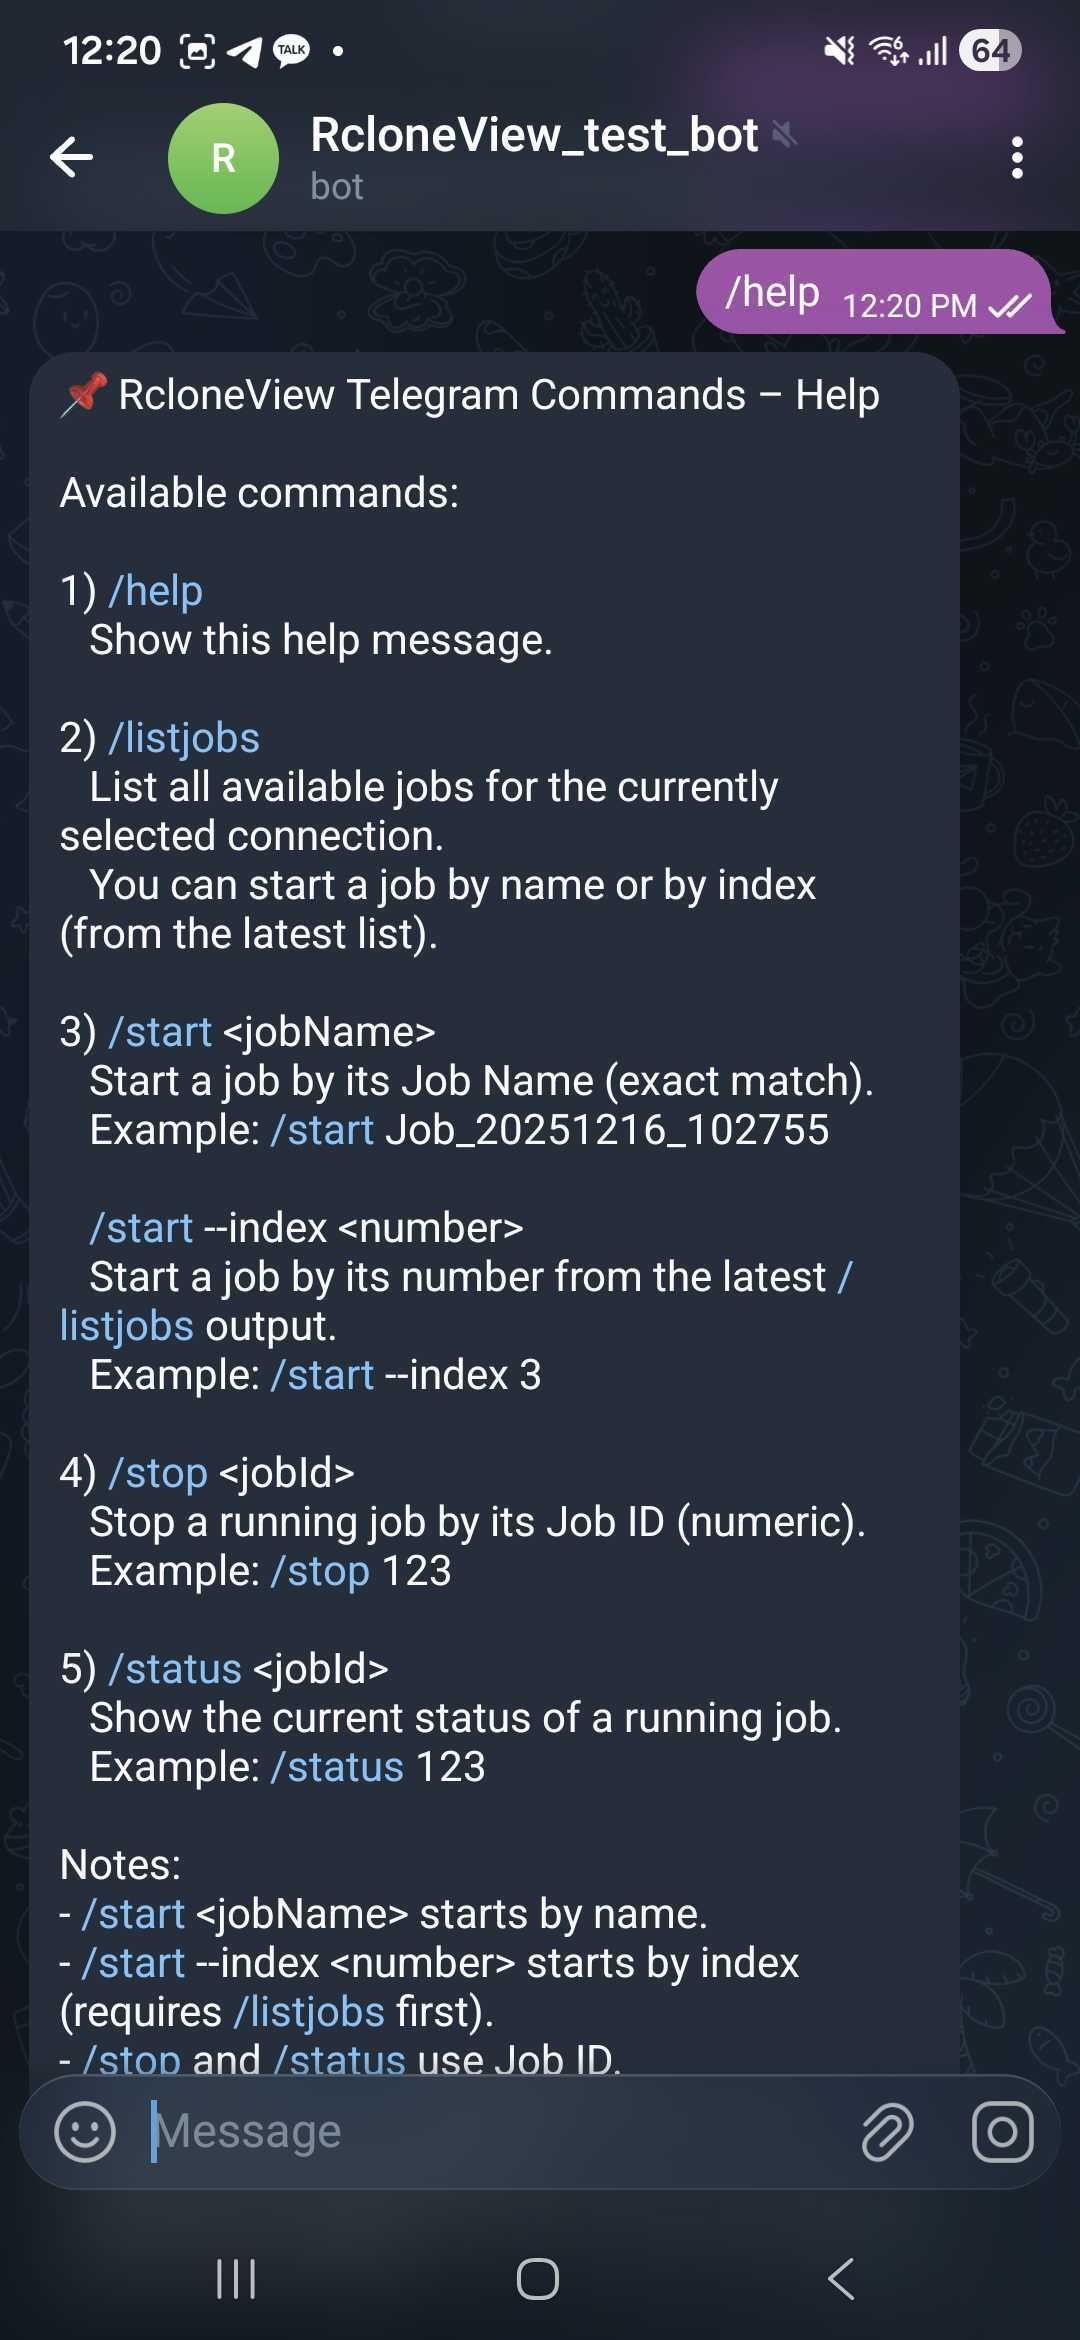
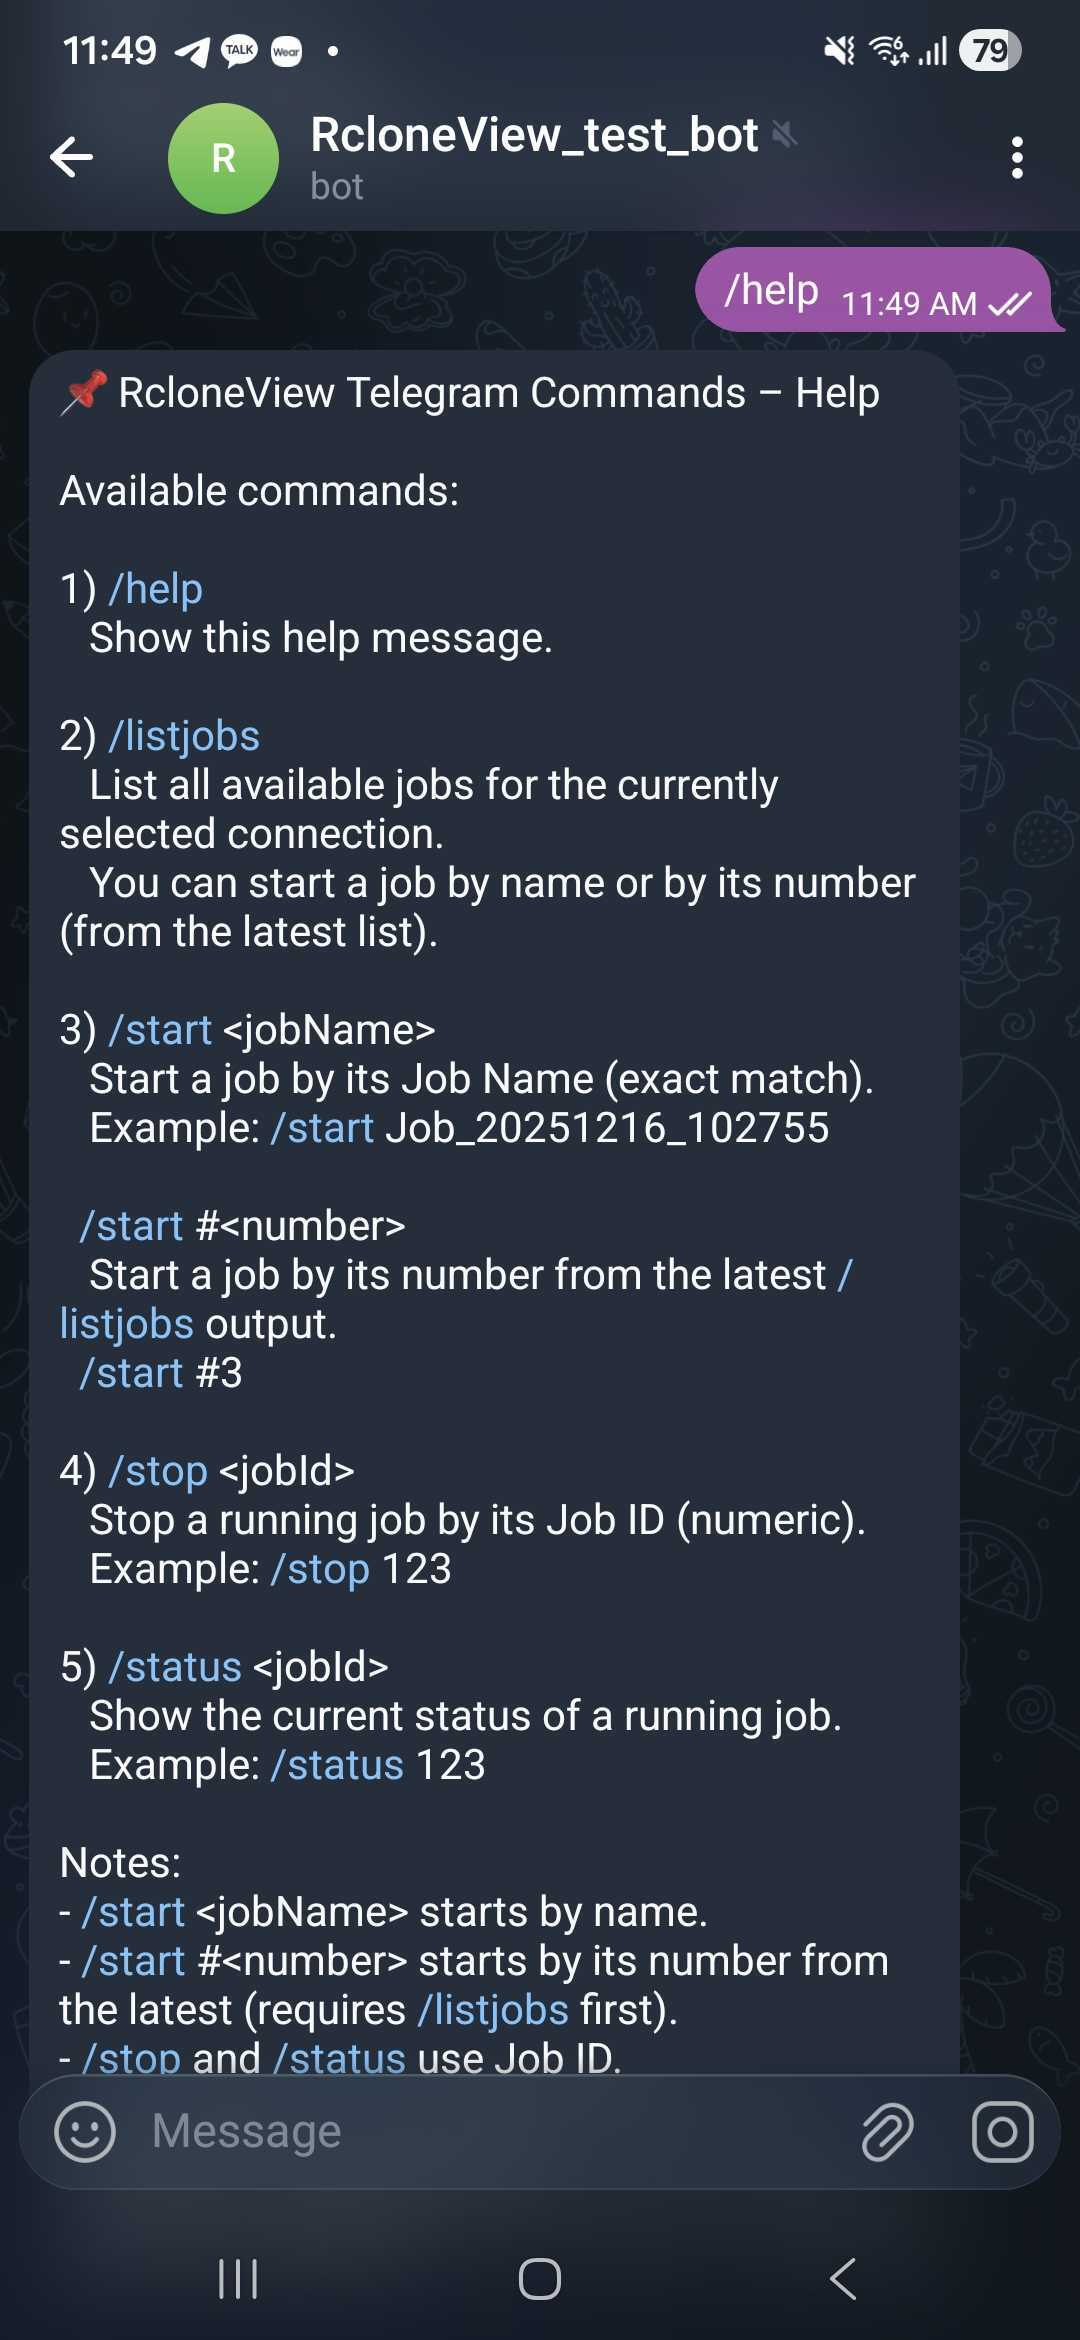
telegram 튜토리얼 수정

diff --git a/tutorials/telegram-remote-control.md b/tutorials/telegram-remote-control.md
@@ -224,16 +224,16 @@ Use `/listjobs` to copy the exact job name.
 
 <img src="/support/images/en/tutorials/telegram/telegram-job-start_by_jobname.jpg" alt="telegram start by job name" class="img-large img-center" />
 
-### `/start --index <number>` (Recommended)
+### `/start #<number>` (Recommended)
 
-Starts a job by index from the latest `/listjobs` result:
+Start a job by its number from the latest `/listjobs` result:
 
 ```
-/start --index 2
+/start #2
 ```
 
 :::important Run `/listjobs` first
-The index is based on the current job list output.
+The number is based on the current job list output.
 :::
 
 <img src="/support/images/en/tutorials/telegram/telegram-job-start_by_index_1.jpg" alt="telegram start by index step1" class="img-large img-center" />
